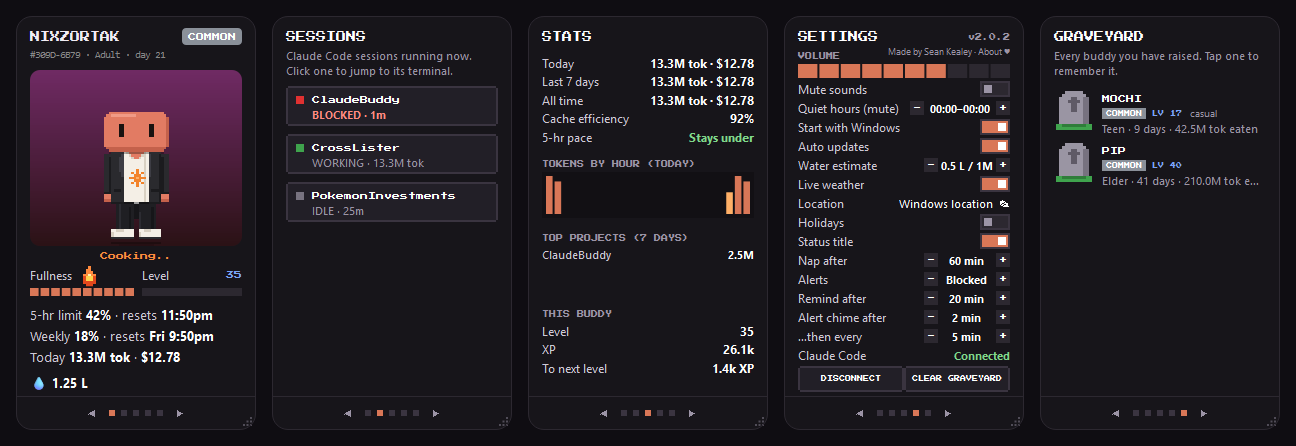
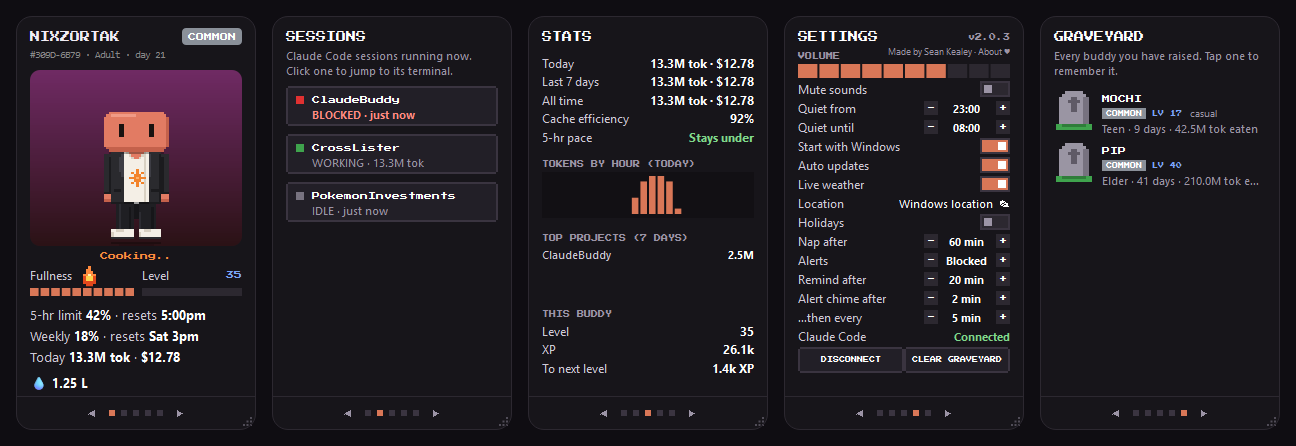
Update README, licence and notices

diff --git a/README.md b/README.md
@@ -56,6 +56,10 @@ Every buddy is rolled when its egg is laid, and no two grow up quite the same:
   habit (late nights, marathon coding sessions, a big spending day) and your buddy picks it up too, with its own
   look until it wears off.
 
+**Quiet hours** (23:00–08:00 by default; change them in Settings) slow hunger to a quarter, so your buddy won't
+starve while you sleep. The catch: tokens spent during quiet hours earn only a quarter of the XP. Going away for a
+while? Turn on **Daycare** to pause hunger, aging and XP altogether.
+
 ## Requirements
 
 - Windows 10 or 11
@@ -89,6 +93,14 @@ Windows Settings → Apps → Installed apps → **Claude Buddy** → Uninstall.
 Code. You can keep your buddy and graveyard (the default) or delete them.
 
 ## What's new
+
+### 2.0.3
+
+- Quiet hours now have a catch: tokens spent during them earn only a quarter of the XP.
+- Settings has separate **Quiet from** and **Quiet until** rows, so you can set when quiet hours end, not just when
+  they start.
+- A tidier Settings page: the Water estimate and Status title rows are gone (the status title under your buddy is
+  always on).
 
 ### 2.0.2
 
